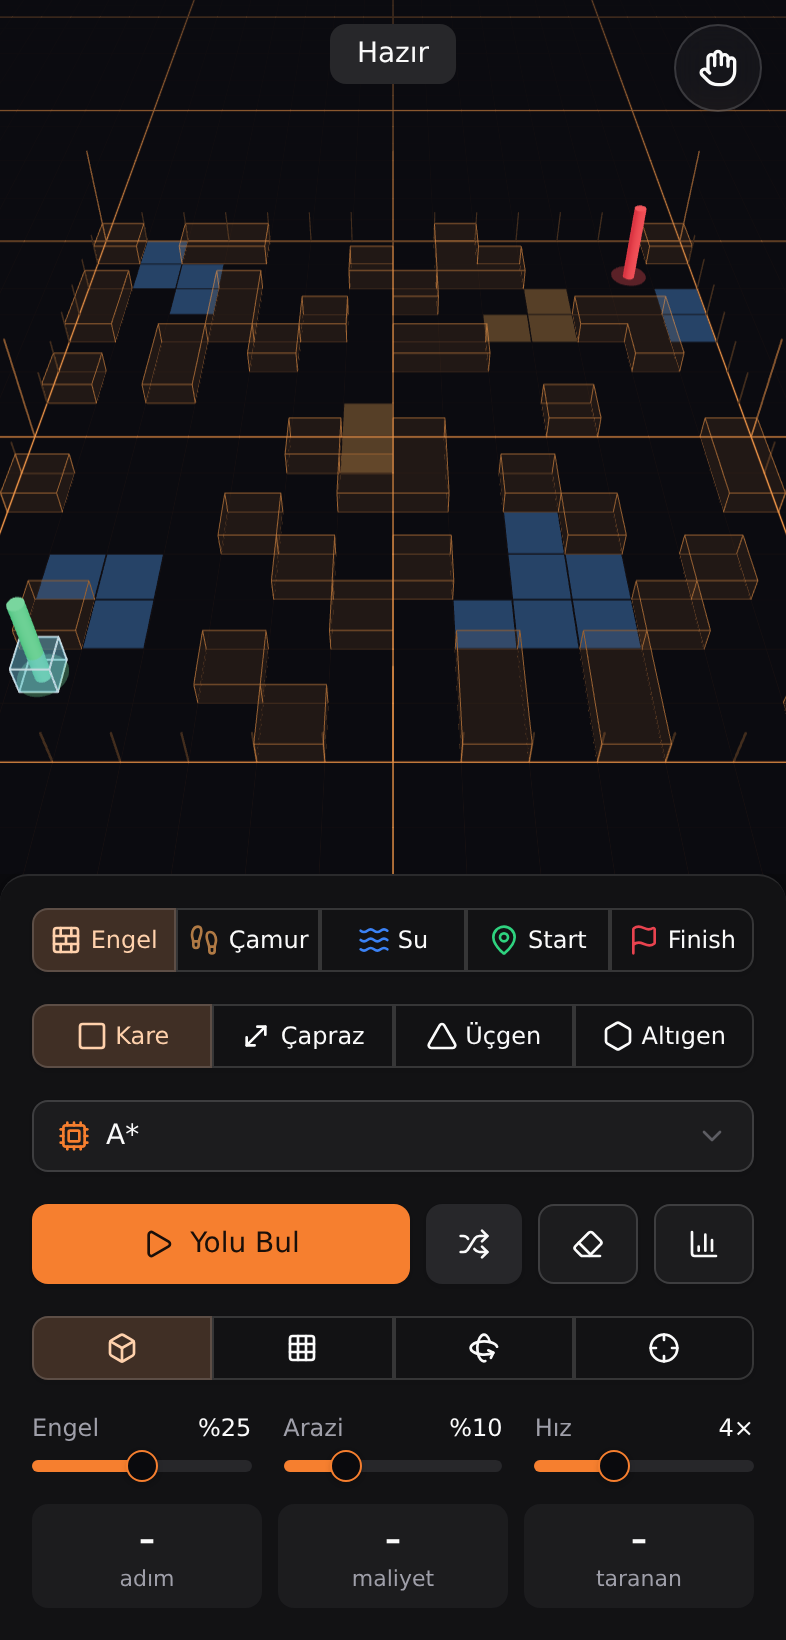
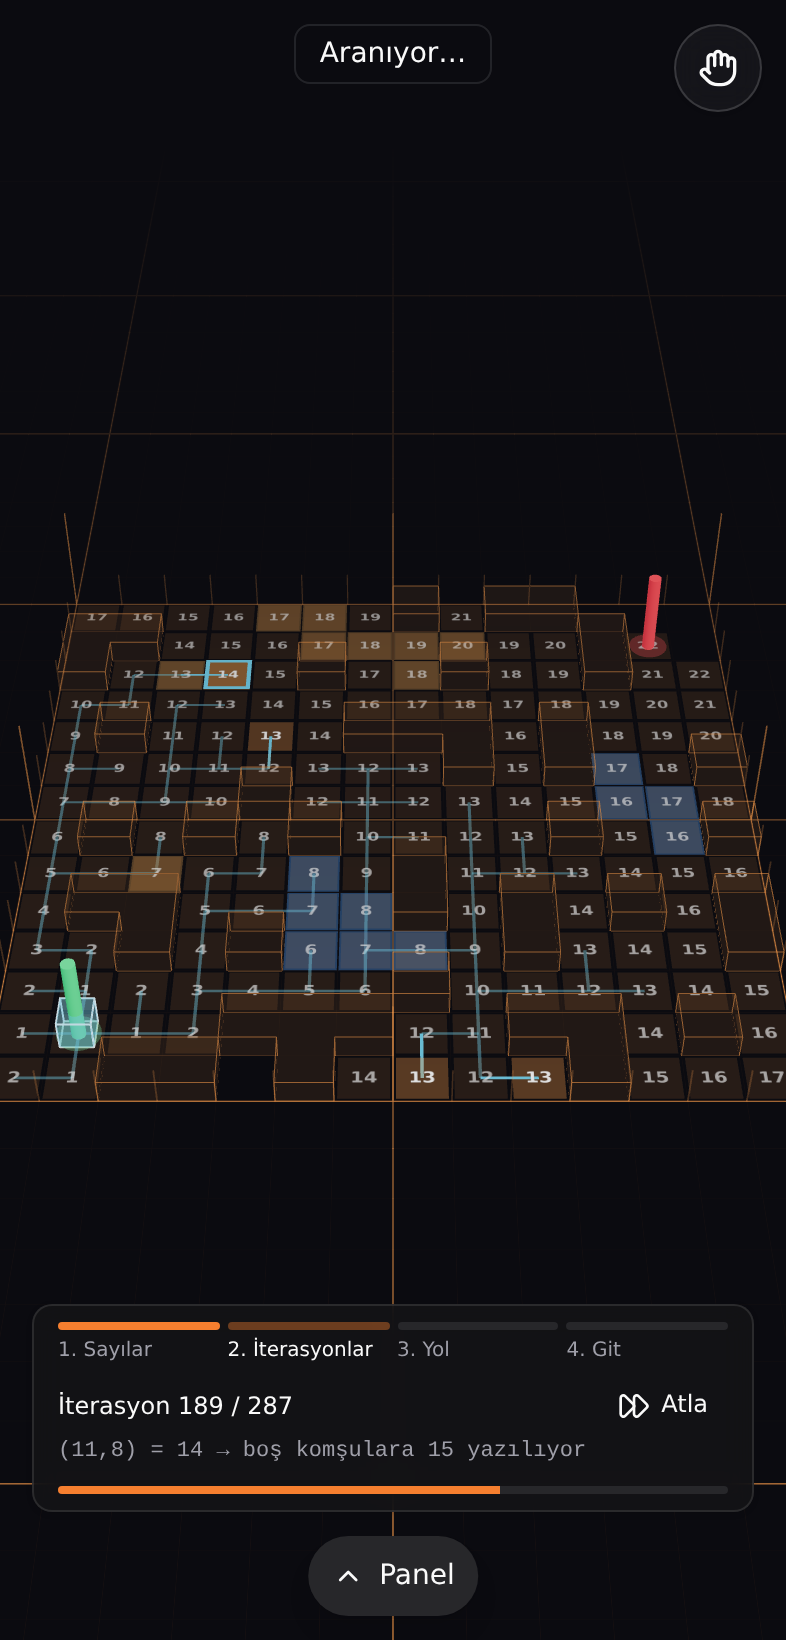
Slide the phone panel away when a search starts; reopen with Panel button or handle
Claude-Session: https://claude.ai/code/session_012C741uDUbYVtiP9ZhWnGNd

diff --git a/src/App.jsx b/src/App.jsx
@@ -1,6 +1,6 @@
 import { useCallback, useEffect, useMemo, useRef, useState } from 'react'
 import { Canvas } from '@react-three/fiber'
-import { BarChart3, LayoutGrid, Box, BrickWall, Footprints, Hexagon, MoveDiagonal, Square, Triangle, Waves, X, Dices, FastForward, Cpu, Crosshair, Eraser, Flag, Grid3x3, Hand, MapPin, Play, Rotate3d, Route, Shuffle } from 'lucide-react'
+import { BarChart3, ChevronUp, LayoutGrid, Box, BrickWall, Footprints, Hexagon, MoveDiagonal, Square, Triangle, Waves, X, Dices, FastForward, Cpu, Crosshair, Eraser, Flag, Grid3x3, Hand, MapPin, Play, Rotate3d, Route, Shuffle } from 'lucide-react'
 import { METHODS, key, methodById, pathCost, randomTerrain, randomWalls, supports } from './algorithms/index.js'
 import { ARENAS, GRIDS, makeGrids } from './grids.js'
 import Runner from './components/Runner.jsx'
@@ -102,7 +102,7 @@ function describe(step) {
 const PHASE_LABELS = ['Sayılar', 'İterasyonlar', 'Yol', 'Git']
 
 // Live view of the phased replay: which phase, what is happening now, progress, skip to the next phase.
-function IterationPanel({ view, tl, walking, summary, onSkip }) {
+function IterationPanel({ view, tl, walking, summary, onSkip, raised }) {
   const p = walking || summary ? 3 : view.p
   const phase = tl.phases[view.p]
   let title, detail, progress
@@ -124,7 +124,7 @@ function IterationPanel({ view, tl, walking, summary, onSkip }) {
     progress = view.i / phase.length
   }
   return (
-    <div className="pointer-events-auto absolute inset-x-0 bottom-2 mx-auto w-[min(calc(100%-2rem),380px)] rounded-lg border bg-card px-3 py-2 text-xs shadow-sm backdrop-blur md:bottom-4 md:left-88">
+    <div className={`pointer-events-auto absolute inset-x-0 ${raised ? 'bottom-16' : 'bottom-2'} mx-auto w-[min(calc(100%-2rem),380px)] rounded-lg border bg-card px-3 py-2 text-xs shadow-sm backdrop-blur md:bottom-4 md:left-88`}>
       <div className="mb-2 grid grid-cols-4 gap-1">
         {PHASE_LABELS.map((label, j) => (
           <div key={label} className="flex flex-col gap-1">
@@ -162,6 +162,8 @@ export default function App() {
   const [terrain, setTerrain] = useState(() => randomTerrain(GRIDS.square, walls, GRIDS.square.start, GRIDS.square.goal, 0.1))
   const [gridId, setGridId] = useState('square')
   const [compare, setCompare] = useState(null)
+  const [panelOpen, setPanelOpen] = useState(true) // phone: the bottom panel slides away while a search plays
+  const swipe = useRef(null)
   const [mode, setMode] = useState('wall')
   const [visited, setVisited] = useState(new Set())
   const [path, setPath] = useState([])
@@ -255,6 +257,8 @@ export default function App() {
     if (busy) return
     clearTrail()
     placeRunner(start)
+    // On a phone, slide the panel down so the whole screen shows the scene.
+    if (window.matchMedia('(max-width: 767px)').matches) setPanelOpen(false)
     const result = methodById(method).run(grid, walls, start, goal, { random: randomPath, costs: terrain })
     pending.current = result
     setPhase('search')
@@ -437,7 +441,20 @@ export default function App() {
             walking={phase === 'walk'}
             summary={summary}
             onSkip={phase === 'search' ? skipPhase : null}
+            raised={!panelOpen}
           />
+        )}
+        {!panelOpen && (
+          <Button
+            variant="secondary"
+            className="absolute bottom-3 left-1/2 h-10 -translate-x-1/2 rounded-full px-5 shadow-lg backdrop-blur md:hidden"
+            onClick={() => setPanelOpen(true)}
+            onPointerDown={(e) => (swipe.current = e.clientY)}
+            onPointerUp={(e) => swipe.current !== null && swipe.current - e.clientY > 20 && setPanelOpen(true)}
+            aria-label="Paneli aç"
+          >
+            <ChevronUp /> Panel
+          </Button>
         )}
         {compare && (
           <ComparePanel
@@ -469,7 +486,21 @@ export default function App() {
         </div>
       </div>
 
-      <Card className="max-h-[56%] gap-4 overflow-y-auto rounded-none rounded-t-xl border-x-0 border-b-0 py-4 backdrop-blur md:absolute md:top-4 md:left-4 md:max-h-[calc(100%-2rem)] md:w-80 md:gap-4 md:rounded-xl md:border md:py-5">
+      <Card
+        className={`gap-4 overflow-y-auto rounded-none rounded-t-xl border-x-0 border-b-0 backdrop-blur transition-[max-height,padding] duration-300 ease-out md:absolute md:top-4 md:left-4 md:max-h-[calc(100%-2rem)] md:w-80 md:gap-4 md:rounded-xl md:border md:py-5 ${
+          panelOpen ? 'max-h-[56%] pt-2 pb-4' : 'max-h-0 border-t-0 py-0'
+        }`}
+      >
+        <button
+          type="button"
+          className="-mb-2 flex w-full shrink-0 touch-none justify-center py-1 md:hidden"
+          onClick={() => setPanelOpen(false)}
+          onPointerDown={(e) => (swipe.current = e.clientY)}
+          onPointerUp={(e) => swipe.current !== null && e.clientY - swipe.current > 20 && setPanelOpen(false)}
+          aria-label="Paneli kapat"
+        >
+          <span className="h-1.5 w-10 rounded-full bg-muted-foreground/40" />
+        </button>
         <CardHeader className="hidden md:grid">
           <CardTitle className="flex items-center gap-2 text-lg">
             <Route className="size-5 text-primary" /> Yol Bulan

diff --git a/README.md b/README.md
@@ -72,6 +72,7 @@ Her adım 1 tutar (çapraz adım √2). **Çamur**a girmek 3, **su**ya girmek 5 
 - **Rastgele**: seçili yoğunlukta engel ve arazi (her zaman çözülebilir). **Temizle**: hepsini siler.
 - **Engel / Arazi / Hız**: rastgele haritanın doluluğu ve oynatma hızı.
 - **Kamera**: Perspektif · Üstten · İzometrik · Takip (küpü izler). Seçili görünüme tekrar dokunmak o açıya sıfırlar.
+- **Telefonda** **Yolu Bul**'a basınca alttaki panel aşağı kayar, ekranda sadece sahne kalır. Alttaki **Panel ▲** düğmesine dokununca (ya da yukarı kaydırınca) panel geri açılır; panelin üstündeki tutamaçla elle de kapatılabilir.
 - **✋ (sağ üst)**: açıkken 1 parmak / sol tık döndürür, 2 parmak yakınlaştırır ve kaydırır. Kapalıyken dokunmak arenayı düzenler; 2 parmak yine çalışır.
 
 ## Geliştirme
